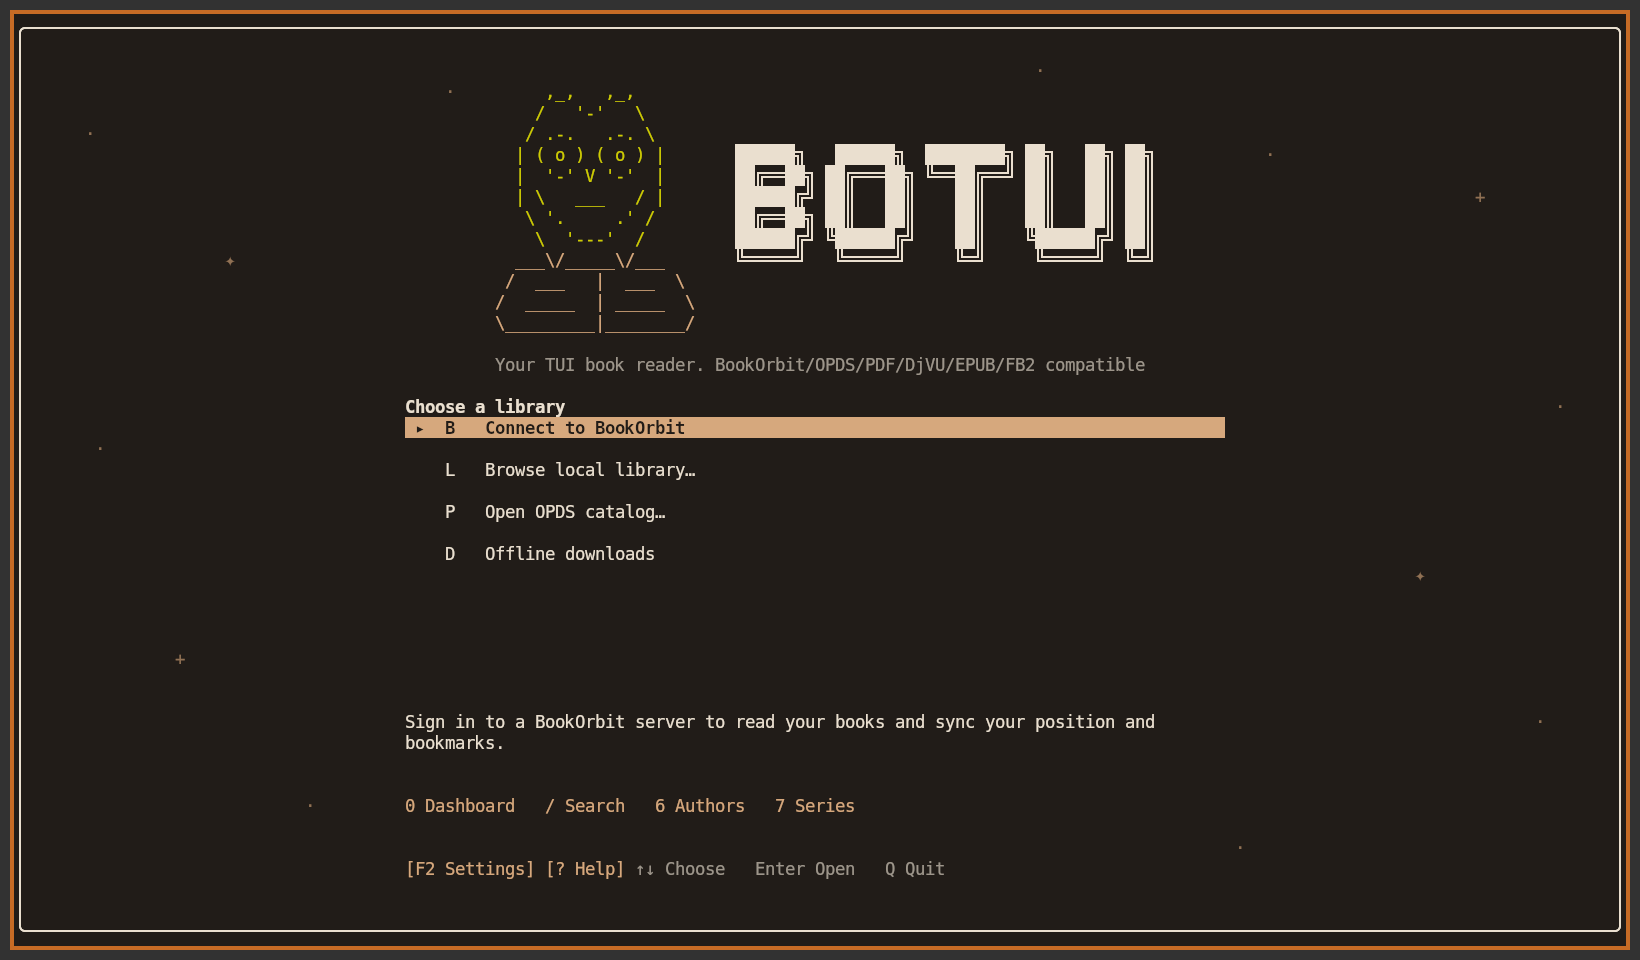
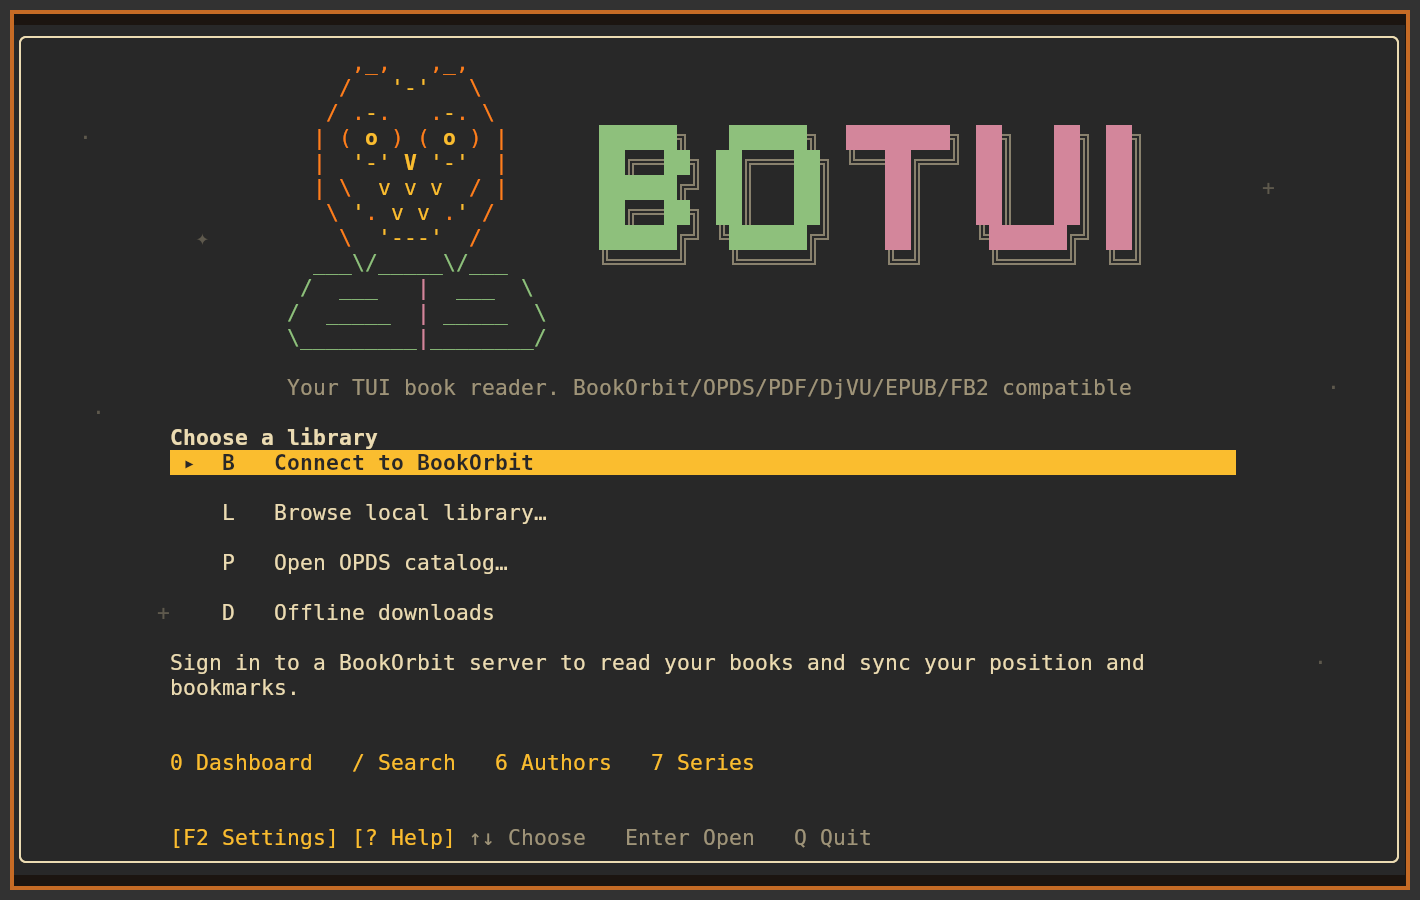
Color the start screen owl and wordmark with the active palette

diff --git a/crates/app/src/shelf/home/masthead.rs b/crates/app/src/shelf/home/masthead.rs
@@ -1,8 +1,8 @@
 //! Stationary, cell-sized art; never take space from the source list in a short window.
 use ratatui::{
     Frame,
-    layout::Rect,
-    style::{Color, Style, Stylize},
+    layout::{Position, Rect},
+    style::{Color, Style},
     widgets::Paragraph,
 };
 
@@ -12,8 +12,8 @@ const OWL: &[&str] = &[
     r"     / .-.   .-. \",
     r"    | ( o ) ( o ) |",
     r"    |  '-' V '-'  |",
-    r"    | \   ___   / |",
-    r"     \ '.     .' /",
+    r"    | \  v v v  / |",
+    r"     \ '. v v .' /",
     r"      \  '---'  /",
     r"    ___\/_____\/___",
     r"   /  ___   |  ___  \",
@@ -37,15 +37,96 @@ const WORD: &[&str] = &[
     "██████╔╝ ╚██████╔╝    ██║    ╚██████╔╝ ██║",
     "╚═════╝   ╚═════╝     ╚═╝     ╚═════╝  ╚═╝",
 ];
+struct Ink {
+    feathers: Color,
+    amber: Color,
+    aqua: Color,
+    violet: Color,
+    shade: Color,
+}
+
+impl Ink {
+    fn current() -> Self {
+        if std::env::var_os("NO_COLOR").is_some_and(|v| !v.is_empty()) {
+            return Self {
+                feathers: Color::Reset,
+                amber: Color::Reset,
+                aqua: Color::Reset,
+                violet: Color::Reset,
+                shade: Color::Reset,
+            };
+        }
+        let palette = crate::settings::interface_palette();
+        let (feathers, amber, aqua, violet): (u32, u32, u32, u32) = match palette.0 {
+            "gruvbox-dark" => (0xfe8019, 0xfabd2f, 0x8ec07c, 0xd3869b),
+            "gruvbox-light" => (0xaf3a03, 0xb57614, 0x427b58, 0x8f3f71),
+            "catppuccin-latte" => (0xfe640b, 0xdf8e1d, 0x179299, 0x8839ef),
+            "catppuccin-frappe" => (0xef9f76, 0xe5c890, 0x81c8be, 0xca9ee6),
+            "catppuccin-macchiato" => (0xf5a97f, 0xeed49f, 0x8bd5ca, 0xc6a0f6),
+            "catppuccin-mocha" => (0xfab387, 0xf9e2af, 0x94e2d5, 0xcba6f7),
+            "nord" => (0xd08770, 0xebcb8b, 0x8fbcbb, 0xb48ead),
+            "dracula" => (0xffb86c, 0xf1fa8c, 0x8be9fd, 0xbd93f9),
+            "tokyo-night" => (0xff9e64, 0xe0af68, 0x7dcfff, 0xbb9af7),
+            "solarized-dark" | "solarized-light" => (0xcb4b16, 0xb58900, 0x2aa198, 0x6c71c4),
+            "one-dark" => (0xd19a66, 0xe5c07b, 0x56b6c2, 0xc678dd),
+            "kanagawa" => (0xffa066, 0xe6c384, 0x7fb4ca, 0x957fb8),
+            "rose-pine" => (0xebbcba, 0xf6c177, 0x9ccfd8, 0xc4a7e7),
+            "rose-pine-dawn" => (0xb4637a, 0xea9d34, 0x56949f, 0x907aa9),
+            "everforest" => (0xe69875, 0xdbbc7f, 0x83c092, 0xd699b6),
+            _ => {
+                return Self {
+                    feathers: Color::Red,
+                    amber: Color::Yellow,
+                    aqua: Color::Cyan,
+                    violet: Color::Magenta,
+                    shade: Color::Blue,
+                };
+            }
+        };
+        let rgb = |v: u32| {
+            let [_, r, g, b] = v.to_be_bytes();
+            Color::Rgb(r, g, b)
+        };
+        let (fg, bg, _) = palette.colors();
+        let shade = match (fg, bg) {
+            (Color::Rgb(r, g, b), Color::Rgb(x, y, z)) => {
+                Color::Rgb(r.midpoint(x), g.midpoint(y), b.midpoint(z))
+            }
+            _ => fg,
+        };
+        Self {
+            feathers: rgb(feathers),
+            amber: rgb(amber),
+            aqua: rgb(aqua),
+            violet: rgb(violet),
+            shade,
+        }
+    }
+    fn word(&self, column: usize, glyph: char, split: usize) -> Style {
+        if glyph == '█' || glyph.is_ascii_alphabetic() {
+            Style::new()
+                .fg(if column < split {
+                    self.aqua
+                } else {
+                    self.violet
+                })
+                .bold()
+        } else {
+            Style::new().fg(self.shade)
+        }
+    }
+}
+
+fn draw_glyphs(f: &mut Frame, x: u16, y: u16, line: &str, style: impl Fn(usize, char) -> Style) {
+    for (column, glyph) in line.chars().enumerate().filter(|(_, ch)| *ch != ' ') {
+        if let Some(cell) = f.buffer_mut().cell_mut(Position::new(x + column as u16, y)) {
+            cell.set_char(glyph).set_style(style(column, glyph));
+        }
+    }
+}
+
 pub(super) fn draw(f: &mut Frame, area: Rect, canvas: Rect) -> u16 {
-    let plain = std::env::var_os("NO_COLOR").is_some();
-    let (owl, book, word, star) = if plain {
-        (Color::Reset, Color::Reset, Color::Reset, Color::Reset)
-    } else if let Some((ink, _, accent)) = crate::settings::shell_colors() {
-        (accent, accent, ink, accent)
-    } else {
-        (Color::Yellow, Color::Cyan, Color::Reset, Color::Cyan)
-    };
+    let ink = Ink::current();
     let big = canvas.width >= 70 && canvas.height >= 30;
     let small = canvas.width >= 64 && canvas.height >= 22;
     let (art, book_at) = if big { (OWL, 8) } else { (SMALL, 4) };
@@ -84,32 +165,38 @@ pub(super) fn draw(f: &mut Frame, area: Rect, canvas: Rect) -> u16 {
                     && (x.saturating_add(2) < mark.x || x >= mark.right().saturating_add(2)))
             {
                 f.render_widget(
-                    Paragraph::new(s).style(Style::new().fg(star).dim()),
+                    Paragraph::new(s).style(Style::new().fg(ink.shade).dim()),
                     Rect::new(x, y, 1, 1),
                 );
             }
         }
     }
     if !small {
-        f.render_widget(Paragraph::new("BOTUI").fg(word).bold(), mark);
+        let name = &"BOTUI"[..usize::from(mark.width.min(5))];
+        draw_glyphs(f, mark.x, mark.y, name, |x, c| ink.word(x, c, 2));
         return 1;
     }
-    for (i, s) in art.iter().enumerate() {
-        f.render_widget(
-            Paragraph::new(*s).fg(if i < book_at { owl } else { book }),
-            Rect::new(mark.x, mark.y + i as u16, left, 1),
-        );
+    for (i, line) in art.iter().enumerate() {
+        draw_glyphs(f, mark.x, mark.y + i as u16, line, |_, glyph| {
+            if glyph == 'o' || glyph == 'V' {
+                Style::new().fg(ink.amber).bold()
+            } else if i >= book_at {
+                Style::new().fg(if glyph == '|' { ink.violet } else { ink.aqua })
+            } else if matches!(glyph, '\'' | '-' | 'v') {
+                Style::new().fg(ink.amber)
+            } else {
+                Style::new().fg(ink.feathers)
+            }
+        });
     }
     let offset = (h - WORD.len() as u16) / 2;
-    for (i, s) in WORD.iter().enumerate() {
-        f.render_widget(
-            Paragraph::new(*s).fg(word).bold(),
-            Rect::new(
-                mark.x + left + 4,
-                mark.y + offset + i as u16,
-                mark.width - left - 4,
-                1,
-            ),
+    for (i, line) in WORD.iter().enumerate() {
+        draw_glyphs(
+            f,
+            mark.x + left + 4,
+            mark.y + offset + i as u16,
+            line,
+            |x, c| ink.word(x, c, 18),
         );
     }
     h + 1

diff --git a/crates/app/src/settings.rs b/crates/app/src/settings.rs
@@ -236,9 +236,8 @@ pub fn paint_book(frame: &mut Frame, theme: crate::theme::Theme) {
         }
     }
 }
-pub fn shell_colors() -> Option<(Color, Color, Color)> {
-    let i = SHELL_THEME.get();
-    (i != 0).then(|| crate::shell_theme::ALL[i].colors())
+pub(crate) fn interface_palette() -> crate::shell_theme::Palette {
+    crate::shell_theme::ALL[SHELL_THEME.get()]
 }
 pub fn paint_interface(frame: &mut Frame) {
     paint_with(frame, SHELL_THEME.get());
